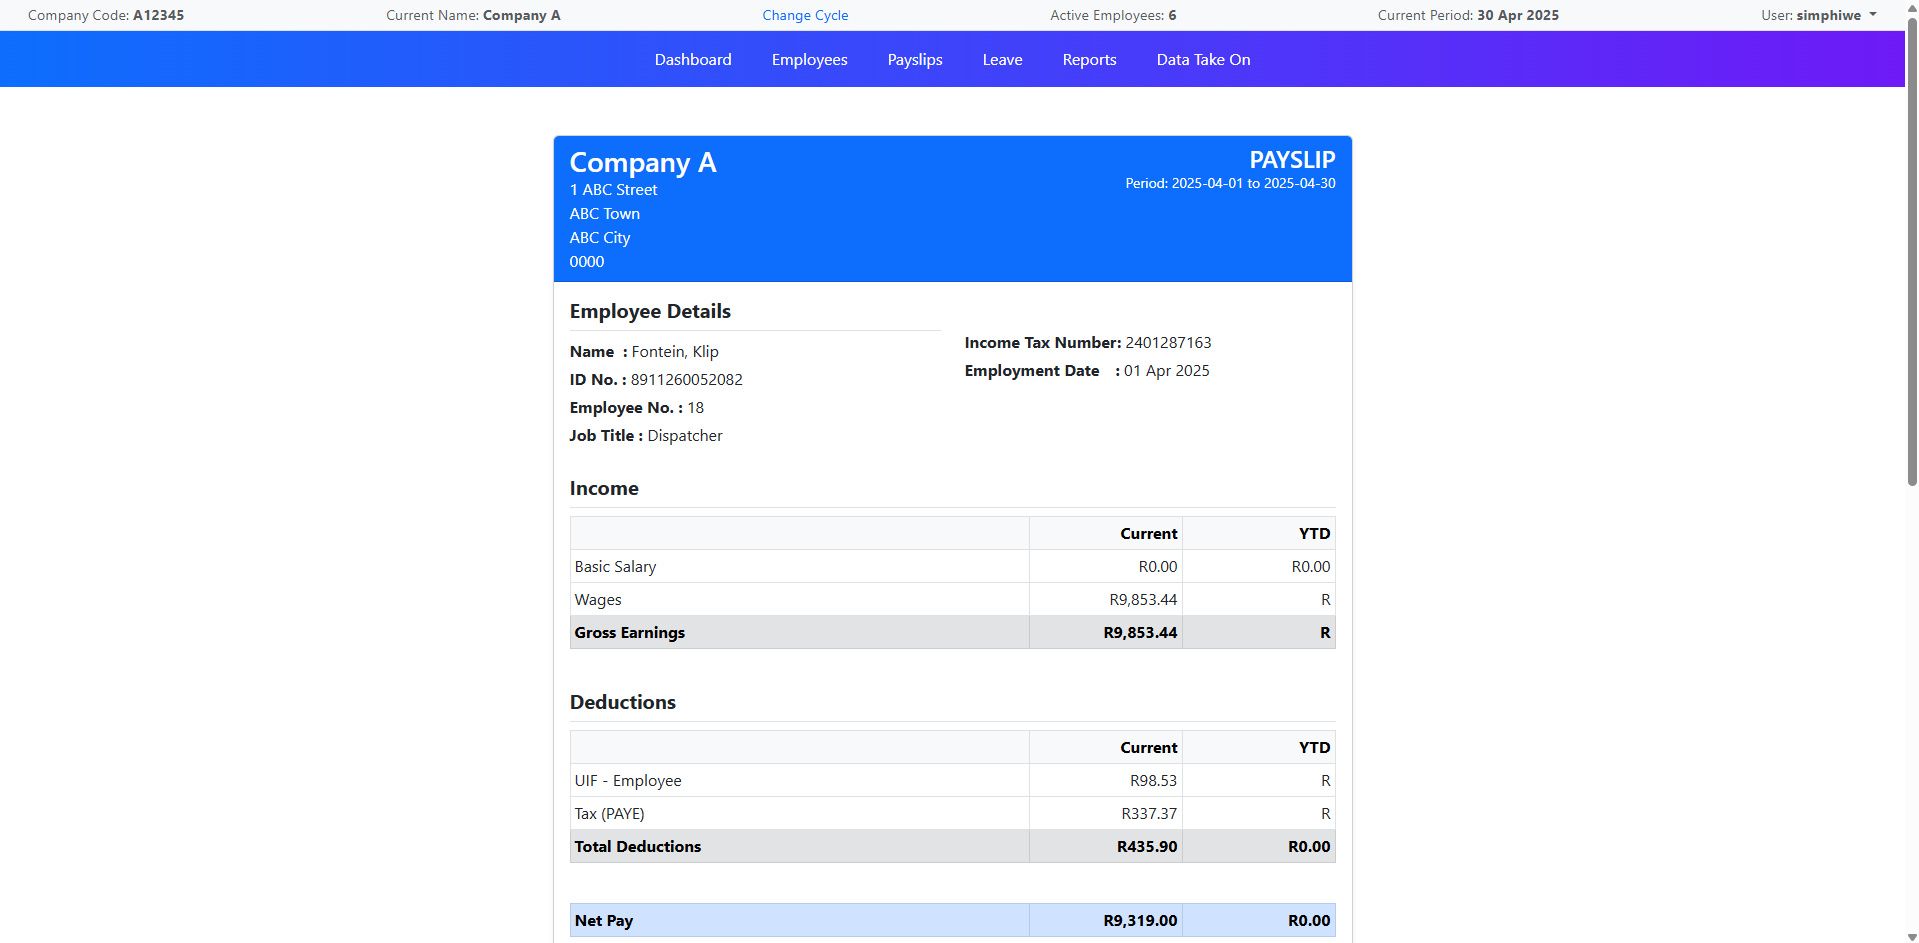
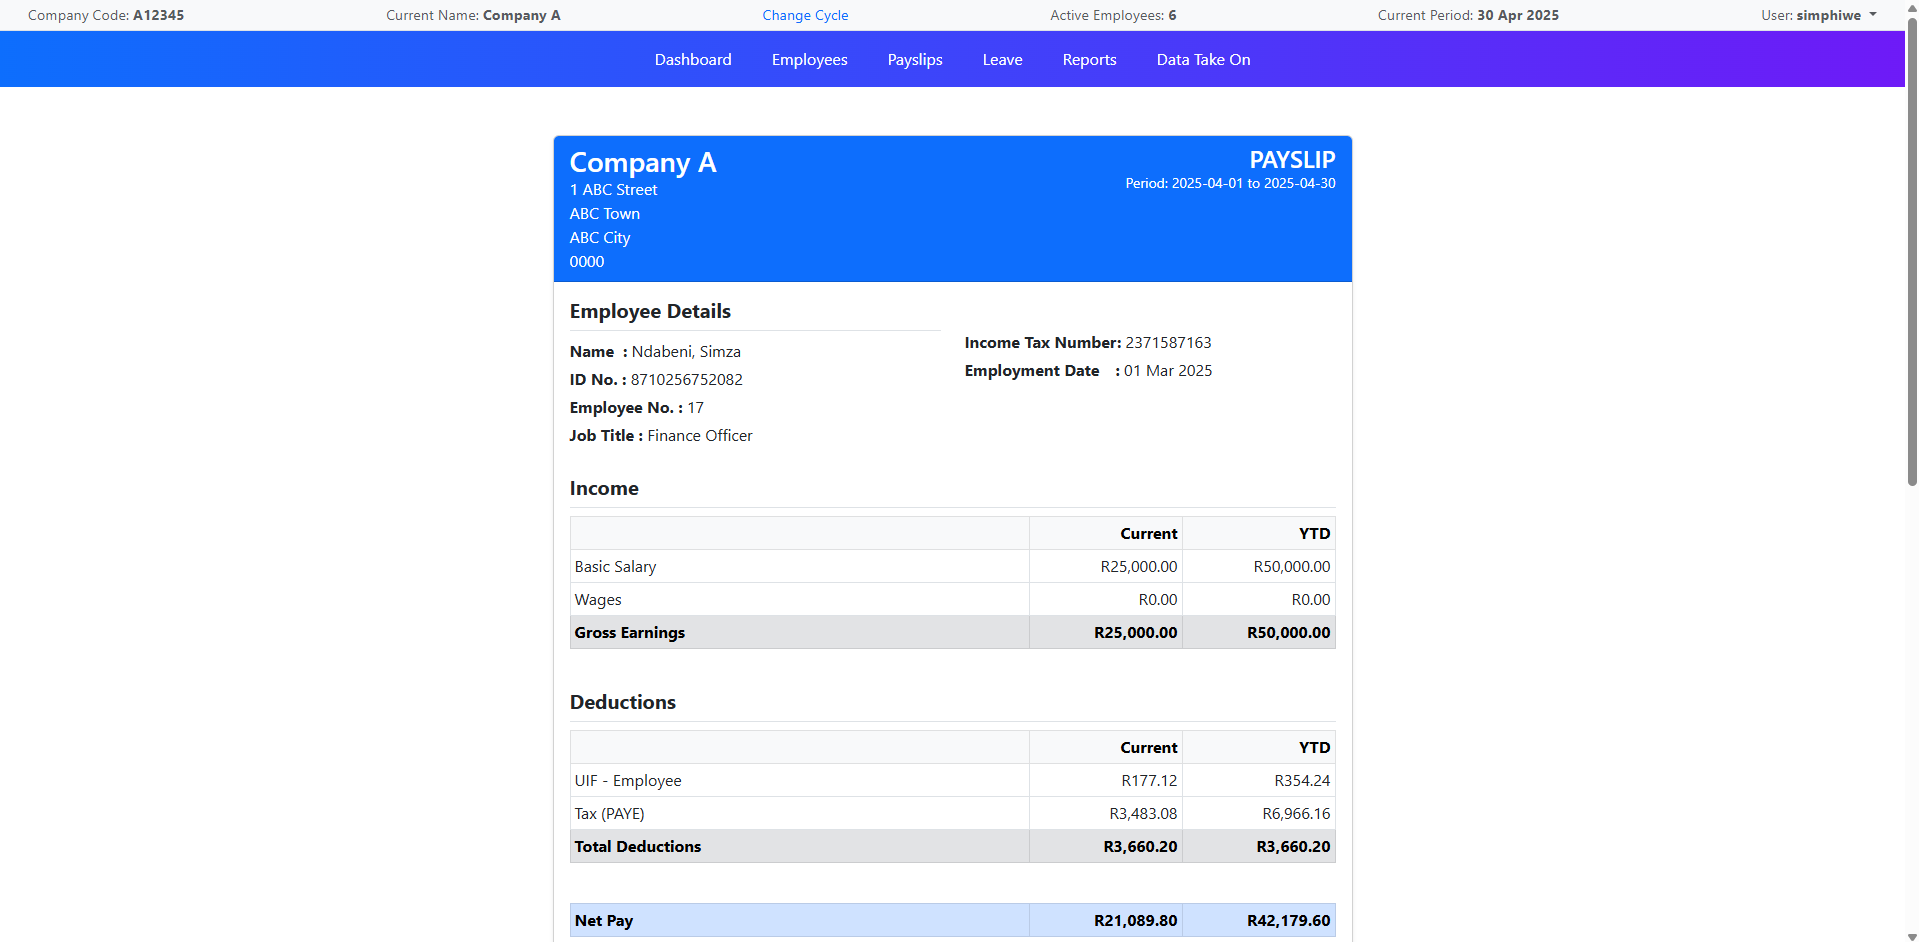
Fixed YTD totals

diff --git a/payroll/templates/payslips/payslip_detail.html b/payroll/templates/payslips/payslip_detail.html
@@ -64,12 +64,12 @@
                                 <tr>
                                     <td>Wages</td>
                                     <td class="text-end">R{{ payslip.get_wages_total|default:"0.00"|floatformat:2|intcomma }}</td>
-                                    <td class="text-end">R{{ payslip.ytd_hourly_pay|default:""|floatformat:2|intcomma }}</td>
+                                    <td class="text-end">R{{ payslip.ytd_wages|default:"0.00"|floatformat:2|intcomma }}</td>
                                 </tr>
                                 <tr class="table-secondary">
                                     <td><strong>Gross Earnings</strong></td>
                                     <td class="text-end"><strong>R{{ payslip.get_income_total|default:"0.00"|floatformat:2|intcomma }}</strong></td>
-                                    <td class="text-end"><strong>R{{ payslip.ytd_basic_salary|default:""|floatformat:2|intcomma }}</strong></td>
+                                    <td class="text-end"><strong>R{{ payslip.ytd_gross_income|default:"0.00"|floatformat:2|intcomma }}</strong></td>
                                 </tr>
                             </tbody>
                         </table>
@@ -95,13 +95,13 @@
                             <tbody>
                                 <tr>
                                     <td>UIF - Employee</td>
-                                    <td class="text-end">R{{ payslip.uif|default:"111.21"|floatformat:2|intcomma }}</td>
-                                    <td class="text-end">R{{ payslip.ytd_uif|default:""|floatformat:2|intcomma }}</td>
+                                    <td class="text-end">R{{ payslip.uif|default:"0.00"|floatformat:2|intcomma }}</td>
+                                    <td class="text-end">R{{ payslip.ytd_uif|default:"0.00"|floatformat:2|intcomma }}</td>
                                 </tr>
                                 <tr>
                                     <td>Tax (PAYE)</td>
-                                    <td class="text-end">R{{ payslip.tax|default:"700.56"|floatformat:2|intcomma }}</td>
-                                    <td class="text-end">R{{ payslip.ytd_tax|default:""|floatformat:2|intcomma }}</td>
+                                    <td class="text-end">R{{ payslip.tax|default:"0.00"|floatformat:2|intcomma }}</td>
+                                    <td class="text-end">R{{ payslip.ytd_tax|default:"0.00"|floatformat:2|intcomma }}</td>
                                 </tr>
                                 <tr class="table-secondary">
                                     <td><strong>Total Deductions</strong></td>
@@ -155,7 +155,7 @@
                                 <tr>
                                     <td>UIF - Employer</td>
                                     <td class="text-end">R{{ payslip.uif|default:"0.00"|floatformat:2|intcomma }}</td>
-                                    <td class="text-end">R{{ payslip.ytd_employer_uif|default:"0.00"|floatformat:2|intcomma }}</td>
+                                    <td class="text-end">R{{ payslip.ytd_uif|default:"0.00"|floatformat:2|intcomma }}</td>
                                 </tr>
                                 <tr class="table-secondary">
                                     <td><strong>Total Employer Contributions</strong></td>

diff --git a/payroll/models.py b/payroll/models.py
@@ -6,7 +6,10 @@ from django.conf import settings
 from django.utils import timezone
 from django.contrib.auth.models import AbstractUser
 from datetime import date
+from django.db.models import Sum
 
+
+import datetime
 
 
 class Company(models.Model):
@@ -235,6 +238,106 @@ class Payslip(models.Model):
             (wh.saturday_earnings if wh else 0) +
             (wh.sunday_earnings if wh else 0)
         )
+    
+    @property
+    def ytd_basic_salary(self):
+        if not self.employee.is_wage_employee:
+            start = datetime.date(self.payroll_run.period_start.year, 3, 1)
+            return Payslip.objects.filter(
+                employee=self.employee,
+                payroll_run__period_start__gte=start,
+                payroll_run__period_start__lte=self.payroll_run.period_start
+            ).aggregate(total=Sum('basic_salary'))['total'] or Decimal('0.00')
+        return Decimal('0.00')
+    
+    @property
+    def ytd_wages(self):
+        if self.employee.is_wage_employee:
+            start = datetime.date(self.payroll_run.period_start.year, 3, 1)
+            payslips = Payslip.objects.filter(
+                employee=self.employee,
+                payroll_run__period_start__gte=start,
+                payroll_run__period_start__lte=self.payroll_run.period_start
+            ).select_related('worked_hours')
+
+            total = Decimal('0.00')
+            for slip in payslips:
+                wh = slip.worked_hours
+                if wh:
+                    total += (
+                        wh.normal_earnings +
+                        wh.overtime_earnings +
+                        wh.saturday_earnings +
+                        wh.sunday_earnings
+                    )
+            return total
+        return Decimal('0.00')
+    
+    @property
+    def ytd_net_pay(self):
+        start_of_tax_year = datetime.date(self.payroll_run.period_start.year, 3, 1)
+        return Payslip.objects.filter(
+            employee=self.employee,
+            payroll_run__period_start__gte=start_of_tax_year,
+            payroll_run__period_start__lte=self.payroll_run.period_start
+        ).aggregate(total=Sum('net_pay'))['total'] or Decimal('0.00')
+    
+    @property
+    def ytd_gross_income(self):
+        start = datetime.date(self.payroll_run.period_start.year, 3, 1)
+        return Payslip.objects.filter(
+            employee=self.employee,
+            payroll_run__period_start__gte=start,
+            payroll_run__period_start__lte=self.payroll_run.period_start
+        ).aggregate(total=Sum('gross_income'))['total'] or Decimal('0.00')
+
+    @property
+    def ytd_total_deductions(self):
+        return (self.tax or Decimal('0.00')) + (self.uif or Decimal('0.00'))
+
+    @property
+    def ytd_tax(self):
+        start = datetime.date(self.payroll_run.period_start.year, 3, 1)
+        return Payslip.objects.filter(
+            employee=self.employee,
+            payroll_run__period_start__gte=start,
+            payroll_run__period_start__lte=self.payroll_run.period_start
+        ).aggregate(total=Sum('tax'))['total'] or Decimal('0.00')
+    
+    @property
+    def ytd_uif(self):
+        start = datetime.date(self.payroll_run.period_start.year, 3, 1)
+        return Payslip.objects.filter(
+            employee=self.employee,
+            payroll_run__period_start__gte=start,
+            payroll_run__period_start__lte=self.payroll_run.period_start
+        ).aggregate(total=Sum('uif'))['total'] or Decimal('0.00')
+    
+    @property
+    def ytd_sdl(self):
+        start = datetime.date(self.payroll_run.period_start.year, 3, 1)
+        return Payslip.objects.filter(
+            employee=self.employee,
+            payroll_run__period_start__gte=start,
+            payroll_run__period_start__lte=self.payroll_run.period_start
+        ).aggregate(total=Sum('sdl'))['total'] or Decimal('0.00')
+    
+    @property
+    def total_employer_contribution(self):
+        return (self.sdl or Decimal('0.00')) + (self.uif or Decimal('0.00'))
+    
+    @property
+    def ytd_total_employer_contribution(self):
+        start = datetime.date(self.payroll_run.period_start.year, 3, 1)
+        totals = Payslip.objects.filter(
+            employee=self.employee,
+            payroll_run__period_start__gte=start,
+            payroll_run__period_start__lte=self.payroll_run.period_start
+        ).aggregate(
+            total_sdl=Sum('sdl'),
+            total_uif=Sum('uif')
+        )
+        return (totals['total_sdl'] or Decimal('0.00')) + (totals['total_uif'] or Decimal('0.00'))
 
     def save(self, *args, **kwargs):
         if self.employee.is_wage_employee:

diff --git a/payroll/views.py b/payroll/views.py
@@ -232,7 +232,7 @@ def payslips_summary(request):
         
         # Net pay
         net_pay = gross_income - tax - uif - sdl
-        
+
         # Now use get_or_create with all the values in defaults
         payslip, created = Payslip.objects.get_or_create(
             employee=employee,

diff --git a/README.md b/README.md
@@ -60,20 +60,6 @@ A Django-based web application to manage employee records for payroll purposes. 
 - Success messages via Django messages framework
 - Smart redirection to relevant views (e.g., detail view after employee creation)
 
-## 🖼 Templates
-- `employee_list.html`: Displays all employees
-- `employee_detail.html`: Shows individual employee details and includes an edit modal
-- `edit_employee_modal.html`: Modal form used for updating employee records
-- `payslip_summary.html`: Displays payslip summary for the payroll run, showing gross income, tax, UIF, SDL, and net pay for each employee
-
-## 🔧 Models Summary
-
-### `Employee`
-- Fields: `first_name`, `last_name`, `id_number`, `tax_number`, `salary`, `is_wage_employee`, `hourly_rate`, `profile_picture`, `department`, `job_title`, `status`, `status_changed_at`
-- Logic:
-  - Auto-calculate hourly rate for salaried employees
-  - Track changes to employment status with timestamp
-
 ## 📦 Requirements
 - Django
 - Bootstrap (for modal support)
@@ -82,8 +68,6 @@ A Django-based web application to manage employee records for payroll purposes. 
 
 ## 📸 Media
 Uploaded profile pictures are stored in `media/employee_pictures/`.
-
-
 
 ## 🚧 Future Enhancements
 - Audit trail for status changes
@@ -105,6 +89,9 @@ Uploaded profile pictures are stored in `media/employee_pictures/`.
 ### Payslips Summary
 ![payslips_summary](./screenshots/payslips_summary.png)
 
-### Payslip (Wage employee) - Pre-YTD logic
+### Payslip (Salary employee) 
 ![payslip1](./screenshots/payslip1.png)
 ![payslip2](./screenshots/payslip2.png)
+
+### Payslip (Wages employee) 
+![payslip1](./screenshots/payslip3.png)
